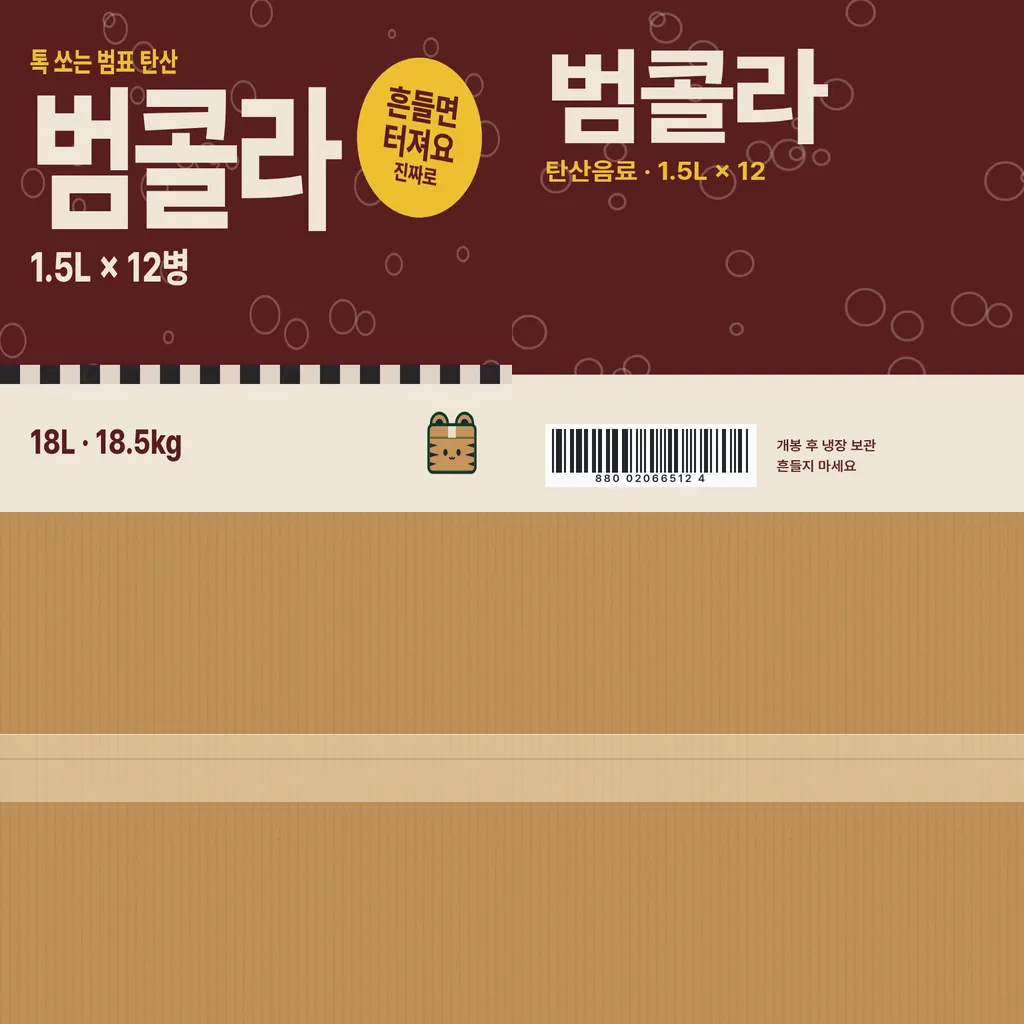
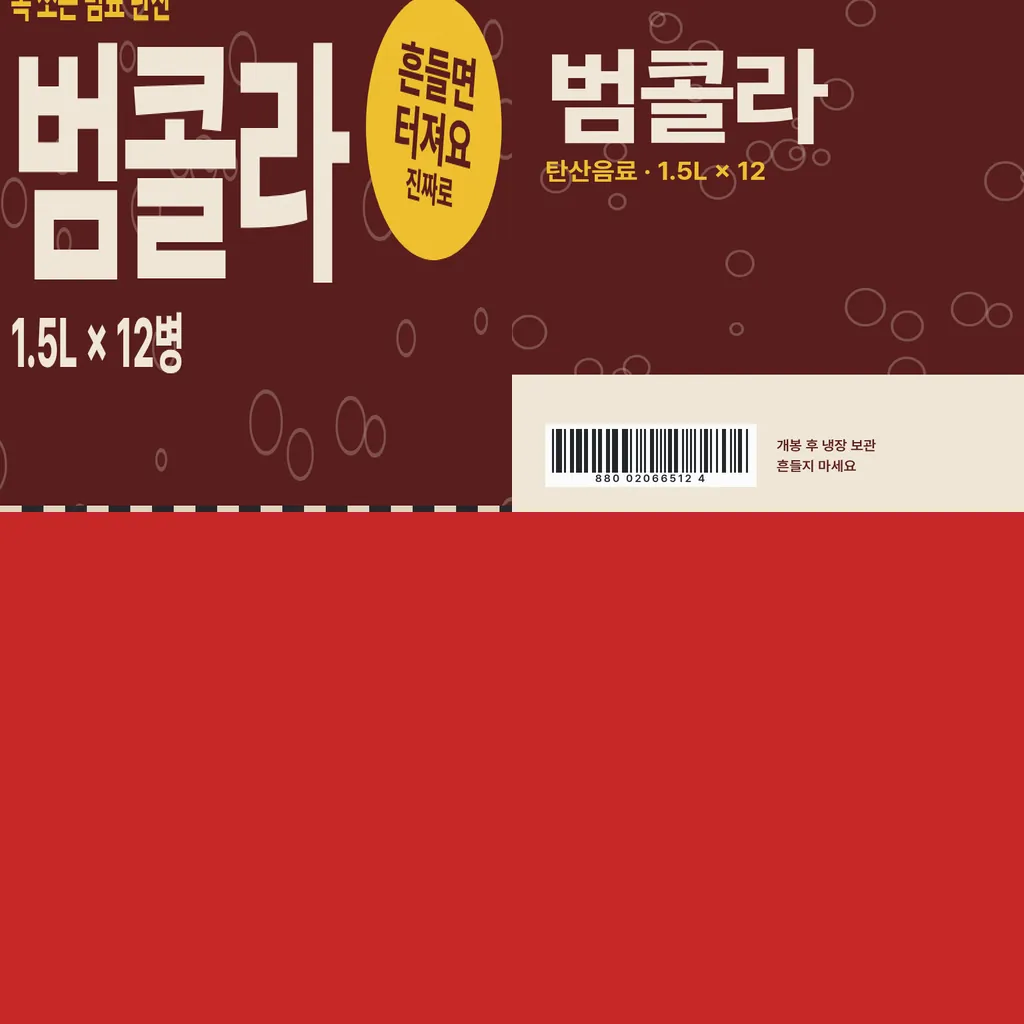
feat(depot): 상자 아닌 상품 모양 — 병 묶음(물 2L×6·범콜라 1.5L×12)·쌀 포대/과자 봉지(볼록)·화장지 롤 팩·수박(구)·삼겹살 트레이·2L 낱병(원기둥), 실측/추정 태그; 아이템 sleep 설정 누락 수정

diff --git a/src/depot/shapes.js b/src/depot/shapes.js
@@ -1,12 +1,84 @@
 // [depot] 상품 모양 — 렌더 지오메트리(원래 자세, 중심 원점, 크기 p.size)와 cannon-es 충돌 모양.
-//   shape: box(기본) · sphere(수박) · cyl(낱병) · bottles(병 묶음) · pillow(포대·봉지) · rolls(화장지 롤 팩) · tray(고기 트레이)
+//   shape: box(기본) · sphere(수박) · cyl(낱병) · bottles(병 묶음, 수축 필름) · pillow(포대·봉지, 볼록) · rolls(화장지 롤 팩) · tray(고기 트레이)
+//   UV 는 상품 아틀라스(1024²) 사분면: 왼쪽 위 = 앞, 오른쪽 위 = 옆, 왼쪽 아래 = 윗면, 오른쪽 아래 = 예비.
 import * as THREE from 'three';
+import { mergeGeometries } from 'three/examples/jsm/utils/BufferGeometryUtils.js';
+
+const E = 3 / 1024;
+const QUAD = { front: [0, 0.5], side: [0.5, 0.5], top: [0, 0], spare: [0.5, 0] };
+// 사분면 안 [u0,u1]×[v0,v1] 부분(0~1 비율)으로 UV 를 옮김
+function toQuad(geo, q, u0 = 0, u1 = 1, v0 = 0, v1 = 1, filter = null) {
+  const uv = geo.attributes.uv, [qu, qv] = QUAD[q];
+  for (let i = 0; i < uv.count; i++) {
+    if (filter && !filter(i)) continue;
+    const u = u0 + uv.getX(i) * (u1 - u0), v = v0 + uv.getY(i) * (v1 - v0);
+    uv.setXY(i, qu + E + u * (0.5 - 2 * E), qv + E + v * (0.5 - 2 * E));
+  }
+  return geo;
+}
+// 면마다 사분면을 고른 박스 (segments 가능)
+function atlasBox(sx, sy, sz, seg = 1, faces = ['side', 'side', 'top', 'top', 'front', 'front']) {
+  const g = new THREE.BoxGeometry(sx, sy, sz, seg, seg, seg);
+  const faceOf = new Int8Array(g.attributes.position.count);
+  for (const gr of g.groups) for (let k = gr.start; k < gr.start + gr.count; k++) faceOf[g.index.getX(k)] = gr.materialIndex;
+  const uv = g.attributes.uv;
+  for (let i = 0; i < uv.count; i++) { const [qu, qv] = QUAD[faces[faceOf[i]]]; uv.setXY(i, qu + E + uv.getX(i) * (0.5 - 2 * E), qv + E + uv.getY(i) * (0.5 - 2 * E)); }
+  g.clearGroups();
+  return g;
+}
+// 병 하나: 몸통 + 어깨(원뿔대) + 뚜껑
+function bottleGeo(r, h, labelU0, labelU1) {
+  const bodyH = h * 0.72, shH = h * 0.18, capH = h * 0.1;
+  const body = toQuad(new THREE.CylinderGeometry(r, r, bodyH, 14, 1, false), 'front', labelU0, labelU1, 0.05, 0.95); body.translate(0, -h / 2 + bodyH / 2, 0);
+  const sh = toQuad(new THREE.CylinderGeometry(r * 0.36, r, shH, 14, 1, false), 'front', labelU0, labelU1, 0.95, 1); sh.translate(0, -h / 2 + bodyH + shH / 2, 0);
+  const cap = toQuad(new THREE.CylinderGeometry(r * 0.3, r * 0.3, capH, 10, 1, false), 'top', 0.45, 0.55, 0.45, 0.55); cap.translate(0, h / 2 - capH / 2, 0);
+  return mergeGeometries([body, sh, cap]);
+}
 
 export function buildProductGeometry(p, { boxGeo }) {
-  return boxGeo(...p.size);
+  const [sx, sy, sz] = p.size, S = p.shape || 'box';
+  if (S === 'sphere') { const g = new THREE.SphereGeometry(sx / 2, 22, 16); toQuad(g, 'front'); g.scale(1, sy / sx, sz / sx); return g; }
+  if (S === 'cyl') return bottleGeo(sx / 2, sy, 0, 1 / 3);
+  if (S === 'bottles') { // nx × nz 병 + 아래 필름 받침
+    const [nx, nz] = p.grid, r = Math.min(sx / nx, sz / nz) / 2 * 0.98, parts = [];
+    for (let i = 0; i < nx; i++) for (let j = 0; j < nz; j++) { const b = bottleGeo(r, sy, p.labelU?.[0] ?? 0, p.labelU?.[1] ?? 1); b.translate(-sx / 2 + (i + 0.5) * sx / nx, 0, -sz / 2 + (j + 0.5) * sz / nz); parts.push(b); }
+    const film = atlasBox(sx, sy * 0.22, sz, 1, ['front', 'front', 'top', 'top', 'front', 'front']); toQuad(film, 'front', 0, 1, 0.0, 0.25); film.translate(0, -sy / 2 + sy * 0.11, 0);
+    parts.push(film);
+    return mergeGeometries(parts);
+  }
+  if (S === 'rolls') { // 롤 기둥들 + 가운데 라벨 띠
+    const [nx, nz] = p.grid, r = Math.min(sx / nx, sz / nz) / 2 * 0.97, parts = [];
+    for (let i = 0; i < nx; i++) for (let j = 0; j < nz; j++) {
+      const c = new THREE.CylinderGeometry(r, r, sy, 12, 1, false); toQuad(c, 'front', 0.02, 0.12, 0.05, 0.3, (k) => k < (12 + 1) * 2); // 옆면: 하얀 롤
+      toQuad(c, 'top', 0.1, 0.2, 0.2, 0.8, (k) => k >= (12 + 1) * 2); c.translate(-sx / 2 + (i + 0.5) * sx / nx, 0, -sz / 2 + (j + 0.5) * sz / nz); parts.push(c);
+    }
+    const band = atlasBox(sx + 0.006, sy * 0.34, sz + 0.006, 1, ['side', 'side', 'top', 'top', 'front', 'front']);
+    const uv = band.attributes.uv; for (let i = 0; i < uv.count; i++) { const v = uv.getY(i), qv = v >= 0.5 ? 0.5 : 0, rel = (v - qv) / 0.5; uv.setY(i, qv + (0.36 + rel * 0.3) * 0.5); }
+    parts.push(band);
+    return mergeGeometries(parts);
+  }
+  if (S === 'pillow') { // 포대·봉지: 가장자리는 얇고 가운데는 볼록
+    const g = atlasBox(sx, sy, sz, 8, p.pillowFaces), pos = g.attributes.position;
+    for (let i = 0; i < pos.count; i++) {
+      const x = pos.getX(i) / (sx / 2), y = pos.getY(i) / (sy / 2), z = pos.getZ(i) / (sz / 2);
+      const thin = p.pillowAxis === 'y' ? 1 - 0.55 * Math.max(x * x, z * z) ** 2 : 1 - 0.6 * Math.max(x * x, y * y) ** 2;
+      if (p.pillowAxis === 'y') pos.setY(i, pos.getY(i) * thin); else pos.setZ(i, pos.getZ(i) * thin);
+    }
+    g.computeVertexNormals(); return g;
+  }
+  if (S === 'tray') { // 스티로폼 트레이 + 볼록한 랩
+    const base = atlasBox(sx, sy * 0.7, sz, 1); base.translate(0, -sy * 0.15, 0);
+    const wrap = new THREE.SphereGeometry(1, 16, 6, 0, Math.PI * 2, 0, Math.PI / 2);
+    { const wp = wrap.attributes.position, wu = wrap.attributes.uv; for (let i = 0; i < wu.count; i++) wu.setXY(i, (wp.getX(i) + 1) / 2, (1 - wp.getZ(i)) / 2); } // 위에서 내려다본 평면 투영
+    toQuad(wrap, 'top', 0.04, 0.96, 0.06, 0.94); wrap.scale(sx * 0.47, sy * 0.3, sz * 0.47); wrap.translate(0, sy * 0.2, 0);
+    return mergeGeometries([base, wrap]);
+  }
+  return boxGeo(sx, sy, sz);
 }
 export function addProductShape(body, p, CANNON) {
-  const [sx, sy, sz] = p.size;
-  body.addShape(new CANNON.Box(new CANNON.Vec3(sx / 2, sy / 2, sz / 2)));
+  const [sx, sy, sz] = p.size, S = p.shape || 'box';
+  if (S === 'sphere') { body.addShape(new CANNON.Sphere(sx / 2)); return; }
+  if (S === 'cyl') { body.addShape(new CANNON.Cylinder(sx / 2, sx / 2, sy, 12)); return; }
+  const k = S === 'pillow' ? 0.94 : 1; // 포대는 가장자리가 얇아 조금 작게
+  body.addShape(new CANNON.Box(new CANNON.Vec3(sx / 2 * k, sy / 2 * (S === 'pillow' ? 0.92 : 1), sz / 2 * k)));
 }
-export { THREE };

diff --git a/src/depot/interior.js b/src/depot/interior.js
@@ -63,7 +63,7 @@ function boxGeoAtlas(sx, sy, sz, topQuad = 'top') {
 const ASSET = `${import.meta.env?.BASE_URL || '/'}depot/`;
 async function loadDepotTextures(renderer) {
   const tl = new THREE.TextureLoader(), maxAniso = Math.min(8, renderer?.capabilities?.getMaxAnisotropy?.() || 4);
-  const names = ['pk-egg', 'pk-water', 'pk-rice', 'pk-tissue', 'pk-ramen', 'pk-chips', 'pk-soda', 'aisle-01', 'aisle-02', 'aisle-03', 'aisle-05', 'hang-eggs-dairy', 'hang-water-drinks', 'hang-rice-grain', 'hang-ramen-snack', 'hang-household', 'rack-safety', 'floor-cart-only', 'floor-forklift', 'floor-hazard', 'egg-crack-1', 'egg-crack-2', 'yolk-puddle'];
+  const names = ['pk-melon', 'pk-meat', 'pk-egg', 'pk-water', 'pk-rice', 'pk-tissue', 'pk-ramen', 'pk-chips', 'pk-soda', 'aisle-01', 'aisle-02', 'aisle-03', 'aisle-05', 'hang-eggs-dairy', 'hang-water-drinks', 'hang-rice-grain', 'hang-ramen-snack', 'hang-household', 'rack-safety', 'floor-cart-only', 'floor-forklift', 'floor-hazard', 'egg-crack-1', 'egg-crack-2', 'yolk-puddle'];
   const out = {};
   await Promise.all(names.map((n) => tl.loadAsync(`${ASSET}${n}.webp`).then((t) => { t.colorSpace = THREE.SRGBColorSpace; t.anisotropy = maxAniso; out[n] = t; }).catch(() => { /* 없으면 캔버스 대체 */ })));
   return out;
@@ -181,8 +181,8 @@ export async function buildDepotInterior({ renderer, isMobile = false, onExit } 
   const productGeo = (p) => buildProductGeometry(p, { boxGeo: boxGeoLabeled });
   const addPhysShape = (body, p) => addProductShape(body, p, CANNON);
   const prodGeo = {}, prodMat = {};
-  for (const p of PRODUCTS) { prodGeo[p.id] = keep(productGeo(p)); const t = TX[`pk-${p.id}`] || keep(labelTex(p)); prodMat[p.id] = keep(new THREE.MeshLambertMaterial({ map: t })); }
-  const order = ['water', 'soda', 'rice', 'egg', 'tissue', 'ramen', 'chips'];
+  for (const p of PRODUCTS) { prodGeo[p.id] = keep(productGeo(p)); const t = TX[`pk-${p.tex || p.id}`] || keep(labelTex(p)); prodMat[p.id] = keep(new THREE.MeshLambertMaterial({ map: t })); }
+  const order = ['water', 'soda', 'rice', 'egg', 'tissue', 'ramen', 'chips', 'melon', 'meat', 'bottle'];
   const stacks = {}; for (const id of order) stacks[id] = [];
   sellSlots.sort((a, b) => a.x - b.x || a.z - b.z);
   sellSlots.forEach((s, i) => {
@@ -191,7 +191,7 @@ export async function buildDepotInterior({ renderer, isMobile = false, onExit } 
     // 파렛트 1.2 m 가 통로 방향(z), 1.0 m 가 깊이(x). 상품 긴 변을 통로 방향으로.
     const along = Math.max(sx, sz), deep = Math.min(sx, sz), rot = sx >= sz ? Math.PI / 2 : 0;
     const nA = Math.max(1, Math.floor(1.2 / along)), nD = Math.max(1, Math.floor(1.0 / deep));
-    const maxH = p.id === 'egg' ? 0.75 : p.id === 'chips' ? 1.3 : 1.35;
+    const maxH = p.id === 'egg' || p.id === 'melon' ? 0.75 : p.id === 'meat' ? 0.3 : p.id === 'chips' ? 1.3 : 1.35;
     const nY = Math.max(1, Math.floor(maxH / sy));
     for (let y = 0; y < nY; y++) for (let a = 0; a < nA; a++) for (let d = 0; d < nD; d++) {
       // 맨 위층은 통로 쪽 앞줄을 조금 비워 '팔린' 느낌
@@ -412,7 +412,8 @@ export async function buildDepotInterior({ renderer, isMobile = false, onExit } 
     addPhysShape(body, p);
     body.position.set(x, y, z);
     const q = quat || itemQuat(rotY, tip); body.quaternion.set(q.x, q.y, q.z, q.w);
-    body.linearDamping = p.kind === 'egg' ? 0.45 : 0.12; body.angularDamping = p.kind === 'egg' ? 0.85 : p.shape === 'sphere' ? 0.5 : 0.35; // 계란판은 튀지 않고 바로 자리 잡게 body.sleepSpeedLimit = 0.05; body.sleepTimeLimit = 0.5;
+    body.linearDamping = p.kind === 'egg' ? 0.45 : 0.12; body.angularDamping = p.kind === 'egg' ? 0.85 : p.shape === 'sphere' ? 0.5 : 0.35; // 계란판은 튀지 않고 바로 자리 잡게
+    body.sleepSpeedLimit = 0.05; body.sleepTimeLimit = 0.5;
     world.addBody(body);
     const mesh = reuse || makeItemMesh(p); itemsRoot.add(mesh); mesh.position.set(x, y, z); mesh.quaternion.copy(q);
     const it = { p, body, mesh, level, size: p.size.slice(), src: st.held?.src || null };
@@ -995,6 +996,7 @@ export async function buildDepotInterior({ renderer, isMobile = false, onExit } 
       hold(id) { const p = BY_ID[id]; st.held = { p, src: null }; st.mode = 'place'; st.rotY = 0; st.tip = false; st.nudge.x = st.nudge.z = 0; setGhost(p); hud.classList.add('placing'); },
       setGhostAt(level, x, z, rotY = 0, tip = false) { st.level = level; st.gx = x; st.gz = z; st.fx = x; st.fz = z; st.rotY = rotY; st.tip = tip; st.nudge.x = st.nudge.z = 0; },
       drop(id, level, x, z, rotY = 0, tip = false) { api._dbg.hold(id); api._dbg.setGhostAt(level, x, z, rotY, tip); if (st.held && itemDims(st.held.p, tip).join() !== ghost?.userData.dims) { setGhost(st.held.p); ghost.userData.dims = itemDims(st.held.p, tip).join(); } ghostSol = solveGhost(); return place(); },
+      firstOf(id) { const im = prodMeshes.find((m) => m.userData.pid === id); const l = im?.userData.list || []; return l.length ? { ...l[Math.floor(l.length / 2)] } : null; },
       camAt(pos, tgt) { st.camOv = pos ? { pos: new THREE.Vector3(...pos), tgt: new THREE.Vector3(...tgt) } : null; },
       settle(sec = 1.5) { for (let t = 0; t < sec; t += 1 / 60) { cart.updateMatrixWorld(true); stepPhysics(1 / 60); } },
       push(sec, f = 1, s = 0, run = false) { for (let t = 0; t < sec; t += 1 / 60) { driveCart(1 / 60, { f, s, run }); cart.updateMatrixWorld(true); stepPhysics(1 / 60); } },

diff --git a/src/depot/products.js b/src/depot/products.js
@@ -3,18 +3,25 @@
 export const PRODUCTS = [
   { id: 'egg', name: '범란 30구', sub: '대란 1,560g', size: [0.305, 0.07, 0.305], kg: 1.63, price: 8480, color: '#e9d3a8', ink: '#7a4b12', kind: 'egg',
     data: { size: 'real 트레이 300~310×300~310×51mm(Kunze) + 알 높이', kg: 'real 대란 1,560g(SSG)+트레이 70g', price: 'real SSG 8,480원' } },
-  { id: 'water', name: '범샘물 2L×6', sub: '먹는샘물 12L', size: [0.272, 0.315, 0.22], kg: 13.0, price: 3498, color: '#cfe9fb', ink: '#0d5ea8', kind: 'box',
+  { id: 'water', name: '범샘물 2L×6', sub: '먹는샘물 12L', size: [0.272, 0.315, 0.22], kg: 13.0, price: 3498, color: '#cfe9fb', ink: '#0d5ea8', kind: 'box', shape: 'bottles', grid: [3, 2], labelU: [0, 1 / 3],
     data: { size: 'real 272×220×315mm', kg: 'real 13.0kg (후지 2L×6 사양)', price: 'derived 코스트코 2L×6×6 20,990원 ÷ 6' } },
-  { id: 'rice', name: '범쌀 20kg', sub: '햅쌀 상등급', size: [0.4, 0.13, 0.6], kg: 20.0, price: 63243, color: '#f3efe2', ink: '#8a1d1d', kind: 'bag', soft: true,
+  { id: 'rice', name: '범쌀 20kg', sub: '햅쌀 상등급', size: [0.4, 0.13, 0.6], kg: 20.0, price: 63243, color: '#f3efe2', ink: '#8a1d1d', kind: 'bag', soft: true, shape: 'pillow', pillowAxis: 'y', pillowFaces: ['side', 'side', 'top', 'top', 'side', 'side'],
     data: { size: 'est 포대 415×635mm(팩마트, 평면) → 채운 두께 130mm 추정', kg: 'real 20kg', price: 'real KAMIS 2026-11-11 소매 평균' } },
-  { id: 'tissue', name: '보들범 30롤', sub: '3겹 40m 화장지', size: [0.5, 0.33, 0.4], kg: 4.5, price: 22490, color: '#f7f7fb', ink: '#2a6fdb', kind: 'soft', soft: true,
+  { id: 'tissue', name: '보들범 30롤', sub: '3겹 40m 화장지', size: [0.5, 0.33, 0.4], kg: 4.5, price: 22490, color: '#f7f7fb', ink: '#2a6fdb', kind: 'soft', soft: true, shape: 'rolls', grid: [5, 4],
     data: { size: 'est 롤 폭 96~98mm(다나와) × 5×3×2단 배열', kg: 'est 측정 필요', price: 'real 코스트코 매장가 22,490원(블로그)' } },
   { id: 'ramen', name: '범라면 40봉', sub: '얼큰한 맛 한 박스', size: [0.54, 0.3, 0.39], kg: 4.8, price: 29900, color: '#d9473b', ink: '#fff6d6', kind: 'box',
     data: { size: 'est 봉지 40개 박스 외형 추정', kg: 'real 4.8kg (11번가 40봉 총중량)', price: 'est 미확인' } },
-  { id: 'chips', name: '와삭범 감자칩', sub: '소금맛 500g', size: [0.3, 0.42, 0.13], kg: 0.5, price: 8990, color: '#f4c430', ink: '#7b1fa2', kind: 'bag', soft: true,
+  { id: 'chips', name: '와삭범 감자칩', sub: '소금맛 500g', size: [0.3, 0.42, 0.13], kg: 0.5, price: 8990, color: '#f4c430', ink: '#7b1fa2', kind: 'bag', soft: true, shape: 'pillow', pillowAxis: 'z', pillowFaces: ['side', 'side', 'top', 'top', 'front', 'front'],
     data: { size: 'est', kg: 'est', price: 'est' } },
-  { id: 'soda', name: '범콜라 1.5L×12', sub: '탄산 18L', size: [0.39, 0.306, 0.286], kg: 18.5, price: 34160, color: '#b71c1c', ink: '#ffffff', kind: 'box',
+  { id: 'soda', name: '범콜라 1.5L×12', sub: '탄산 18L', size: [0.39, 0.306, 0.286], kg: 18.5, price: 34160, color: '#b71c1c', ink: '#ffffff', kind: 'box', shape: 'bottles', grid: [4, 3], labelU: [0.1, 0.9],
     data: { size: 'real 390×286×306mm (Henderson 12×1.5L 케이스)', kg: 'est 내용물 18kg + PET', price: 'real 34,160원 최저가(폴센트)' } },
+  // 2차: 상자 아닌 모양
+  { id: 'melon', name: '범수박 1통', sub: '당도 11 Brix 이상', size: [0.25, 0.25, 0.25], kg: 7.0, price: 19900, color: '#3f8f3a', ink: '#fff', kind: 'round', shape: 'sphere',
+    data: { size: 'est 지름 25cm (중간 크기 수박)', kg: 'est 6~8kg 대과 평균', price: 'est 게임 가안' } },
+  { id: 'meat', name: '범한돈 삼겹살', sub: '구이용 1kg 트레이', size: [0.26, 0.05, 0.19], kg: 1.05, price: 25900, color: '#c9454a', ink: '#fff', kind: 'tray', shape: 'tray',
+    data: { size: 'est 대형 스티로폼 트레이 260×190', kg: 'est 고기 1kg + 트레이·랩 50g', price: 'est 게임 가안' } },
+  { id: 'bottle', name: '범샘물 2L 낱병', sub: '먹는샘물 2L', size: [0.09, 0.315, 0.09], kg: 2.04, price: 650, color: '#cfe9fb', ink: '#0d5ea8', kind: 'bottle', shape: 'cyl', tex: 'water',
+    data: { size: 'est 2L×6 묶음 272×220×315 에서 병 1개 ≈ Ø90×315', kg: 'est 물 2kg + PET 약 40g', price: 'derived 2L×6 3,498원 ÷ 6 ≈ 583 → 650원(낱개 가안)' } },
 ];
 export const BY_ID = Object.fromEntries(PRODUCTS.map((p) => [p.id, p]));
 

diff --git a/scripts/depot/build-assets.py b/scripts/depot/build-assets.py
@@ -55,3 +55,36 @@ save(f'{FX}/decal-egg-crack-2.png', 'egg-crack-2', (128, 128))
 save(f'{FX}/decal-yolk-puddle.png', 'yolk-puddle', (256, 256))
 save(f'{FX}/decal-yolk-drip.png', 'yolk-drip', (128, 256))
 print('ok')
+
+# ---- 2차: 상자 아닌 모양용 (수박·고기 트레이·병 묶음) ----
+import random, math
+random.seed(7)
+def melon():
+    im = Image.new('RGB', (Q, Q), '#3f8f3a'); d = ImageDraw.Draw(im)
+    for k in range(9):  # 세로(경선) 줄무늬 — 구 UV 에서 u 가 둘레
+        x0 = k * Q / 9
+        pts = [(x0 + 10 * math.sin(y / 23 + k) + 8 * math.sin(y / 9), y) for y in range(0, Q + 8, 8)]
+        d.line(pts, fill='#173f1b', width=26)
+    for _ in range(900):
+        x, y = random.randrange(Q), random.randrange(Q); d.point((x, y), fill='#5aa84e')
+    return im
+def meat_top():
+    im = Image.new('RGB', (Q, Q), '#f4f4f0'); d = ImageDraw.Draw(im)
+    d.rounded_rectangle((30, 40, Q - 30, Q - 40), 40, fill='#c9454a')
+    for k in range(5):
+        y = 70 + k * 85
+        d.rectangle((40, y, Q - 40, y + 14 + (k % 2) * 8), fill='#f3d9cc')
+        for _ in range(30):
+            x = random.randrange(50, Q - 50); d.ellipse((x, y + 20, x + random.randrange(8, 30), y + 26 + random.randrange(4, 12)), fill='#eabfb3')
+    d.rounded_rectangle((Q - 200, Q - 150, Q - 40, Q - 50), 14, fill='#1E5A45')
+    d.text((Q - 186, Q - 135), 'BUMP PORK', fill='#F3EADA'); d.text((Q - 186, Q - 110), '1.0kg  25,900', fill='#F2C230')
+    return im
+def foam_side():
+    im = Image.new('RGB', (Q, Q), '#f5f5f2'); d = ImageDraw.Draw(im)
+    for y in range(0, Q, 24): d.line((0, y, Q, y), fill='#e6e6e1', width=3)
+    return im
+atlas('melon', melon(), melon(), melon())
+atlas('meat', foam_side(), foam_side(), meat_top())
+cf = load(f'{PK}/cola-1.5Lx12-box-front.png')
+atlas('soda', crop(cf, (0.04, 0.12, 0.96, 0.72), '#4a1410'), fit(load(f'{PK}/cola-1.5Lx12-box-side.png')), solid('#c62828'))
+print('ok2')
